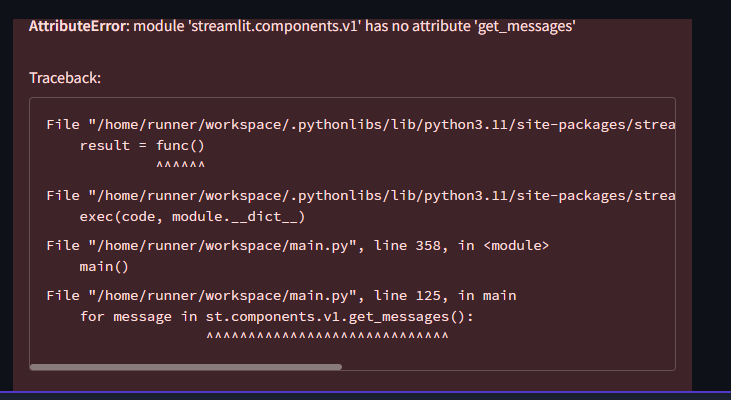
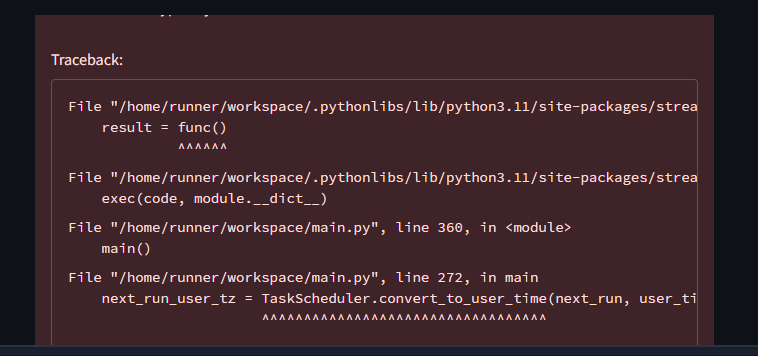
Agent query: ¿Puedes programar un documento y verificar si la zona horaria se muestra correctamente?

Changed region(s): [[0.0, 0.0309, 1.0, 0.9888]]

diff --git a/main.py b/main.py
@@ -269,7 +269,7 @@ def main():
             for task in tasks:
                 # Convert next_run time to user's timezone
                 next_run = datetime.strptime(task['next_run'], '%Y-%m-%d %H:%M:%S')
-                next_run_user_tz = TaskScheduler.convert_to_user_time(next_run, user_timezone)
+                next_run_user_tz = st.session_state.timezone_handler.convert_to_user_time(next_run, user_timezone)
                 next_run_str = next_run_user_tz.strftime('%Y-%m-%d %H:%M:%S %Z')
                 
                 with st.expander(f"📄 {task['file_name']} - Next run: {next_run_str}"):
